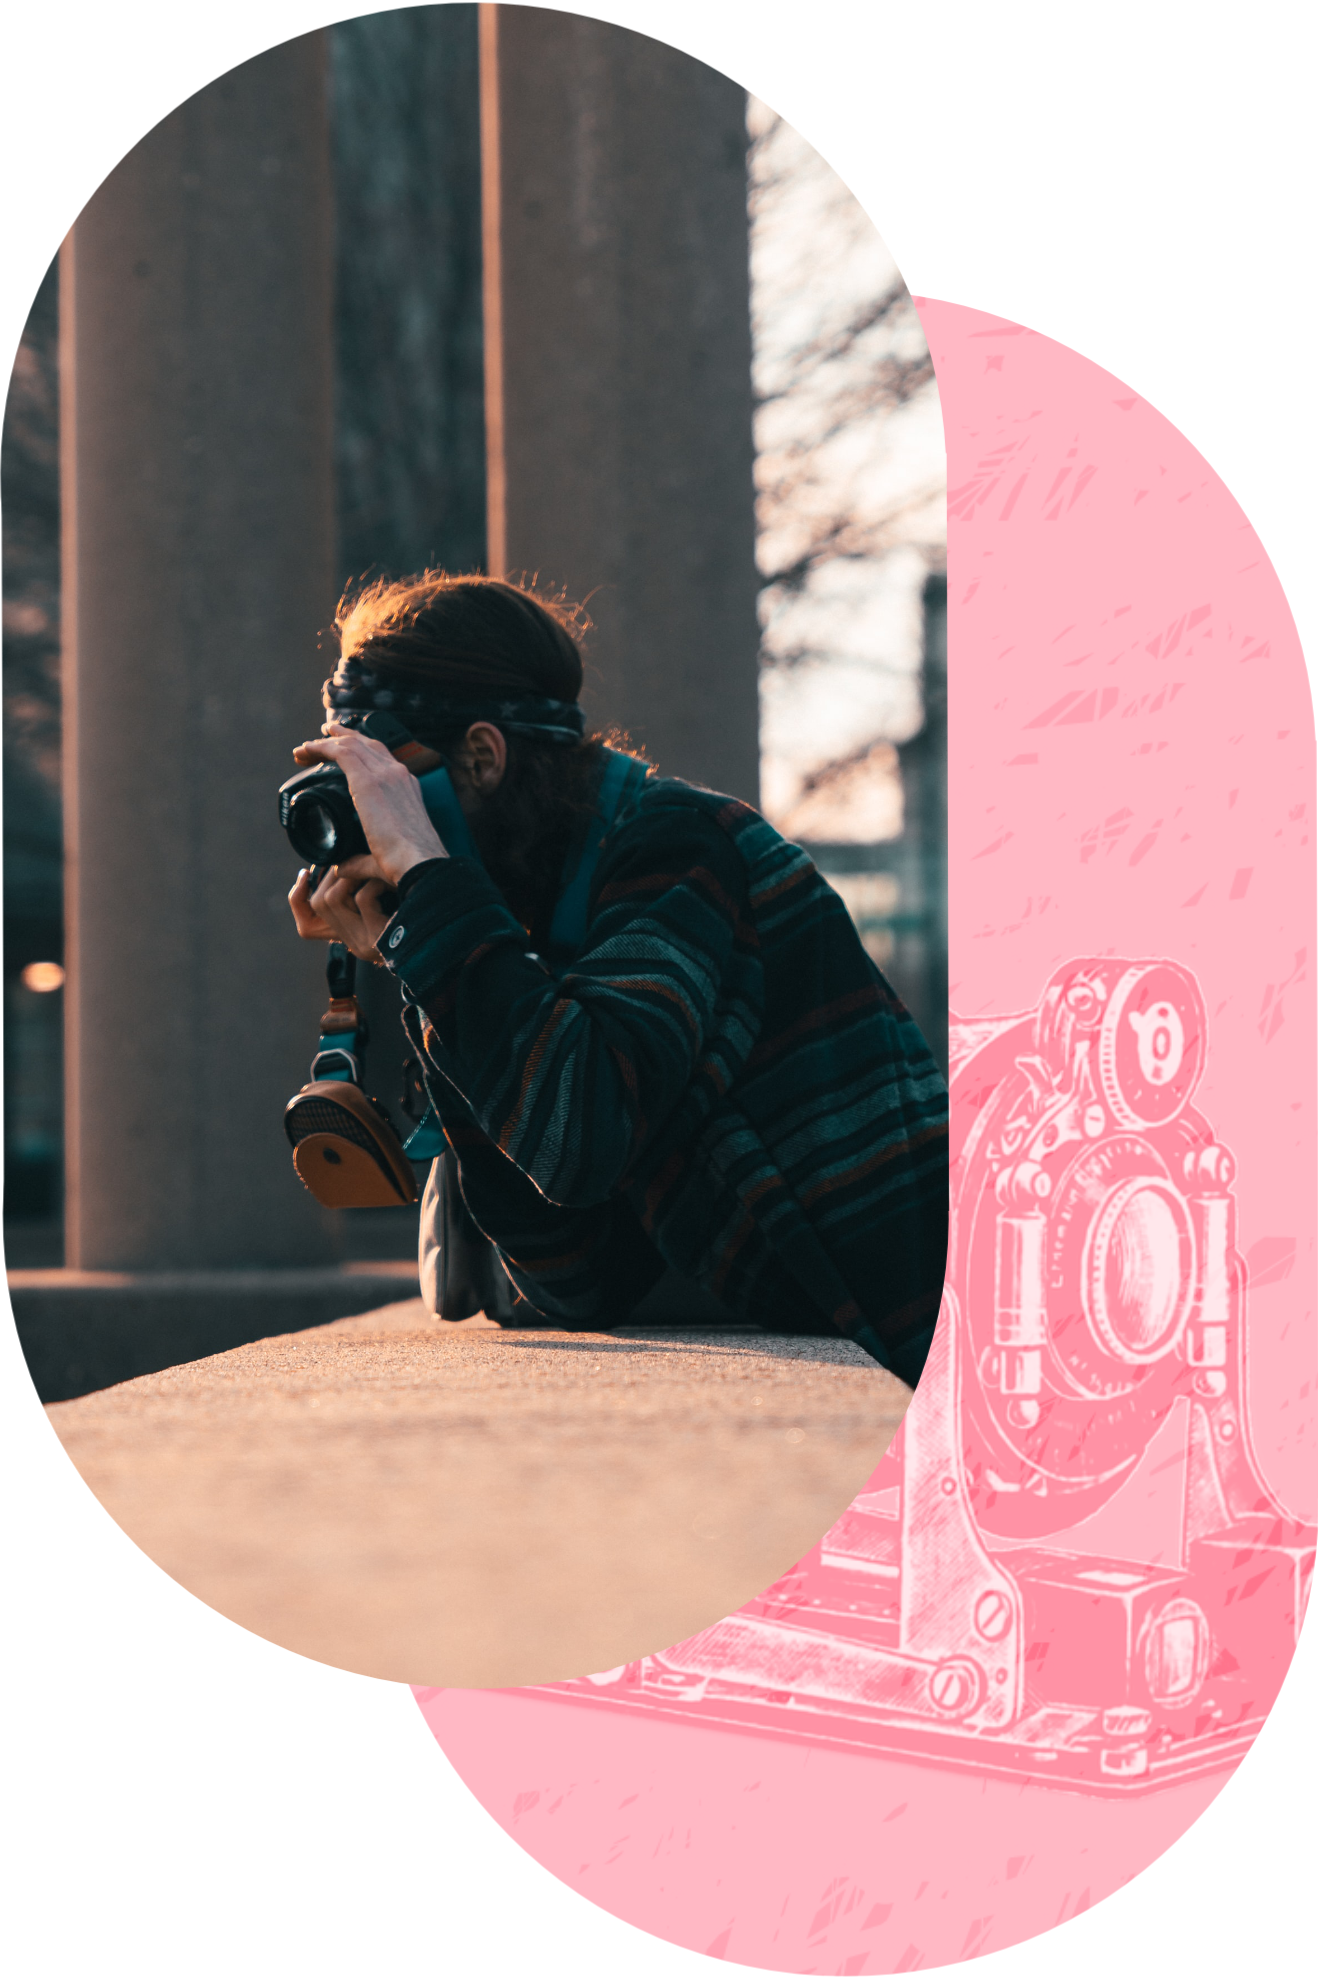
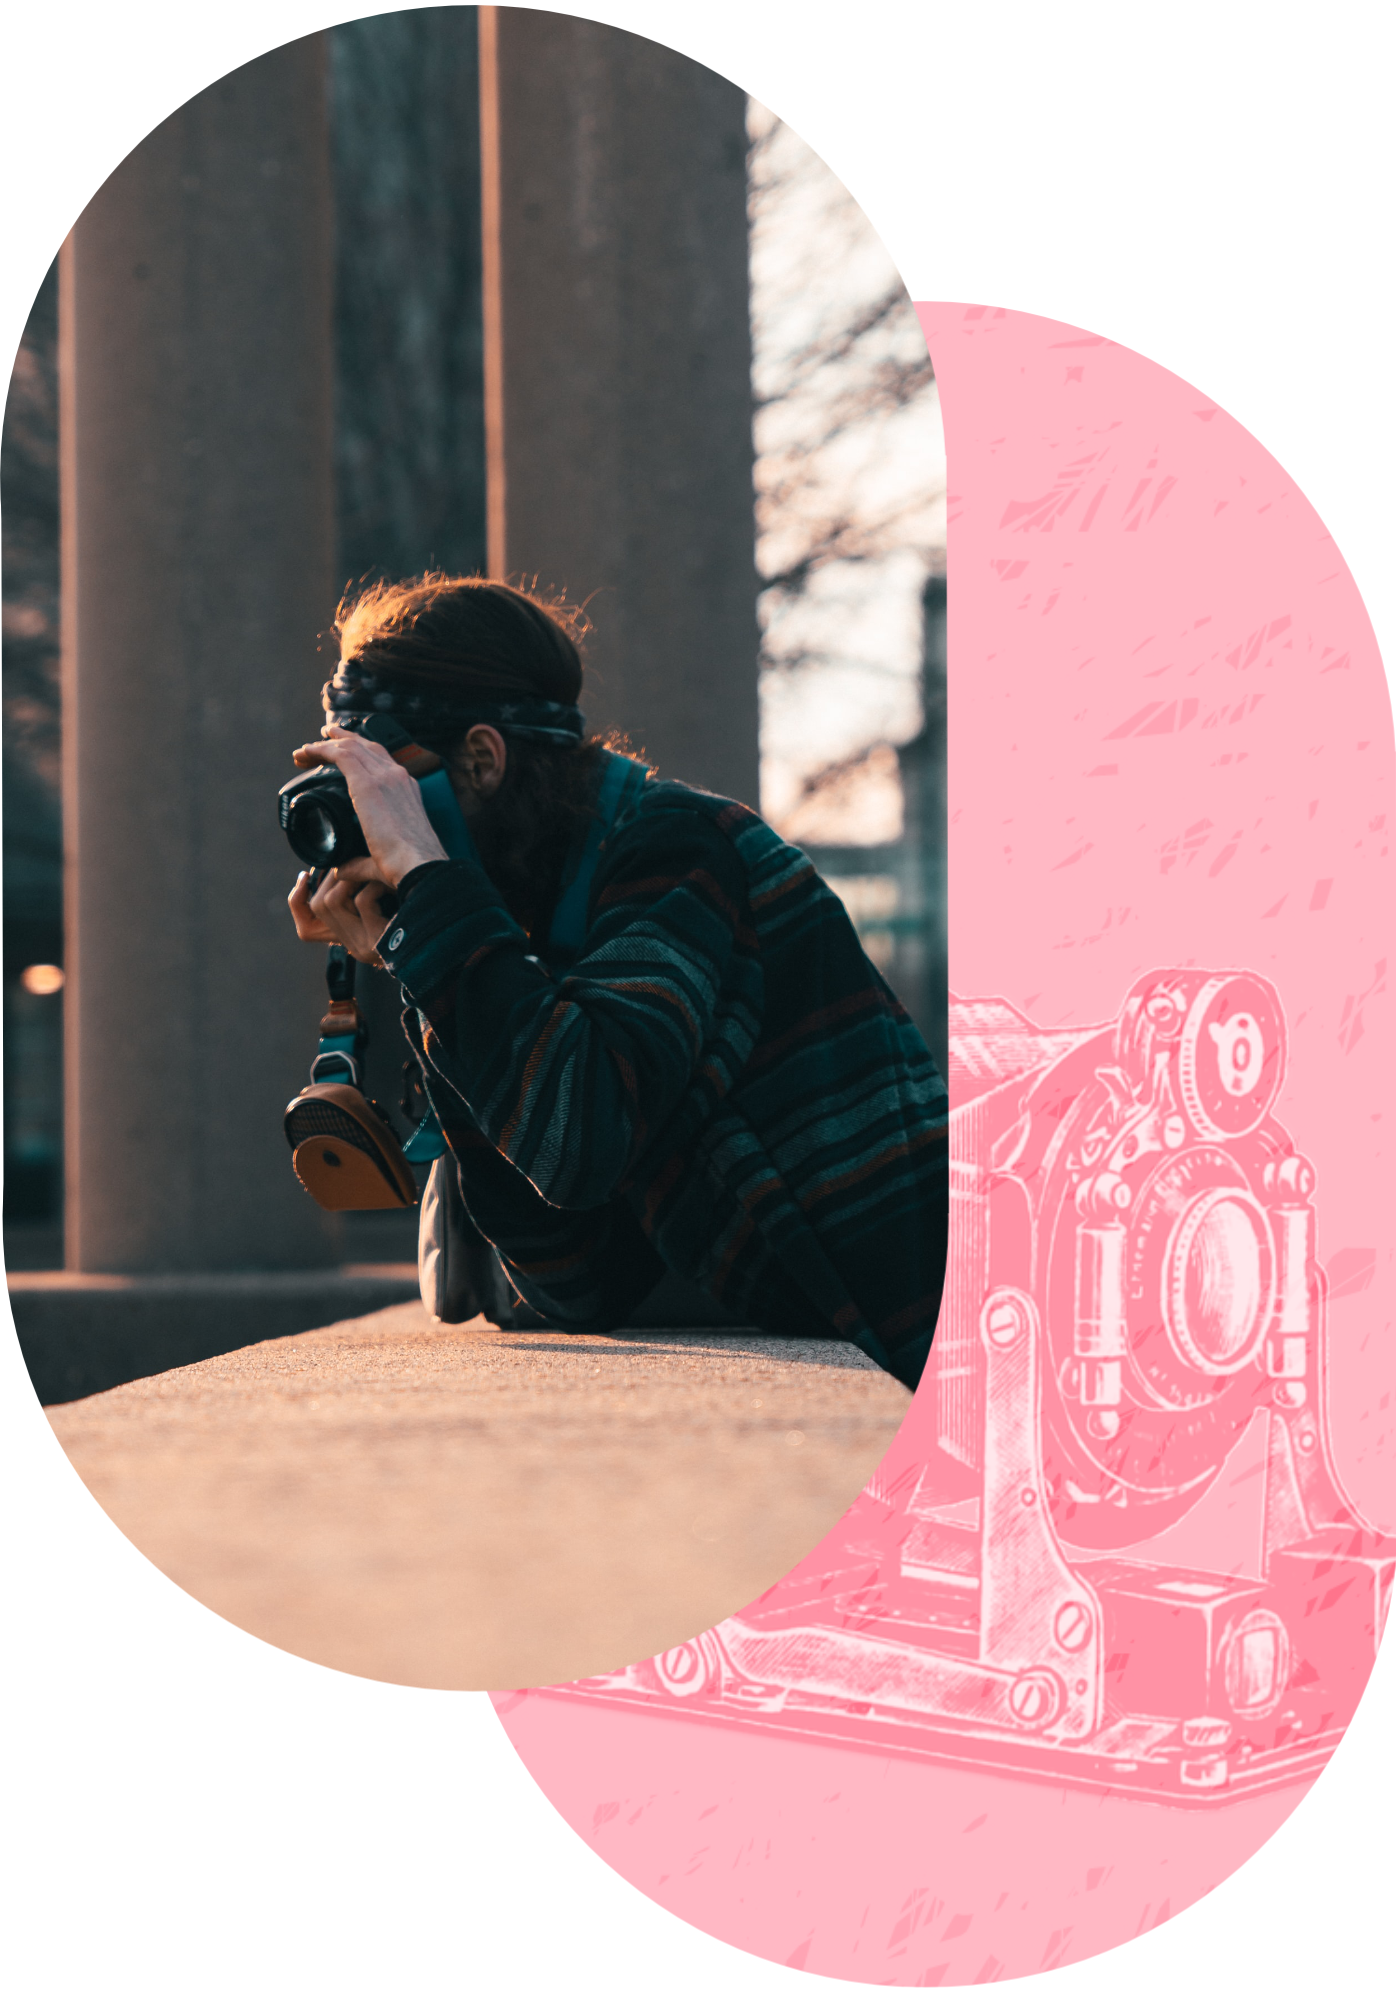
welcome.dart update
More updates to the welcome screen. I think that I almost have it done

- Still need to do some generalizing and also make it responsive

diff --git a/daily_1.0/daily/lib/userInterface/welcomeComponents.dart b/daily_1.0/daily/lib/userInterface/welcomeComponents.dart
@@ -44,12 +44,12 @@ List<Image> _images = [
     Image(image: AssetImage("lib/assets/welcome_carouselThree.png")),
 ];
 int _current = 0;
-Widget WelcomeCarousel(State state, BuildContext context) {
+Widget welcomeCarousel(State state, BuildContext context) {
   return Column(
       children: [
         Container(
-          height: 400,
-          width: 400,
+          height: getDimension(context, true, Theme.of(context).visualDensity.welcomeCarouselHeight),
+          width: getDimension(context, false, Theme.of(context).visualDensity.welcomeCarouselWidth),
           child: CarouselSlider(
             items: _images,
             options: CarouselOptions(
@@ -64,27 +64,39 @@ Widget WelcomeCarousel(State state, BuildContext context) {
             ),
           ),
         ),
-        SizedBox(height: 20,),
         Row(
-        mainAxisAlignment: MainAxisAlignment.center,
-        children: _images.map((image) {     
+          mainAxisAlignment: MainAxisAlignment.center,
+          children: _images.map((image) {     
             int index=_images.indexOf(image);
             return Container(
-              width: 10,
-              height: _current == index ? 30.0 : 20.0,
-              margin: EdgeInsets.symmetric(vertical: 10.0, horizontal: 3.5),
+              width: 8,
+              height: _current == index ? 30.0 : 15.0,
+              margin: EdgeInsets.symmetric(vertical: 20.0, horizontal: 3.5),
               decoration: BoxDecoration(
                   borderRadius: BorderRadius.circular(30),
                   color: _current == index
-                      ? Colors.red
-                      : Colors.grey.shade300
+                      ? Theme.of(context).colorScheme.welcomeCarouselCurrent
+                      : Theme.of(context).colorScheme.welcomeCarouselNotCurrent
               ),
             );
           },
         ).toList(), // this was the part the I had to add
       ),
-      ],
+    ],
+  );
+}
+
+class WelcomeCorner extends StatelessWidget {
+  @override
+  Widget build(BuildContext context) {
+    return Container(
+      height: 175,
+      width: 175,
+      child: Image(
+        image: AssetImage("lib/assets/welcome_corner.png"),
+      ),
     );
+  }
 }
 
 class WelcomeGetStarted extends StatelessWidget {

diff --git a/daily_1.0/daily/lib/userInterface/welcome.dart b/daily_1.0/daily/lib/userInterface/welcome.dart
@@ -1,6 +1,5 @@
 import 'package:flutter/material.dart';
 import 'package:daily/servicesLocal/responsive.dart';
-import 'package:daily/servicesLocal/systemPreferences.dart';
 import 'package:daily/userInterface/welcomeComponents.dart';
 import 'package:daily/themesLocal/colors.dart';
 import 'package:daily/themesLocal/positions.dart';
@@ -38,7 +37,7 @@ welcomeScreenDesktop(State state, BuildContext context) {
       ),
       Positioned(
         top: getPosition(context, true, Theme.of(context).materialTapTargetSize.welcomeDesktopCarouselTop),
-        child: WelcomeCarousel(state, context),
+        child: welcomeCarousel(state, context),
       ),
       Positioned(
         top: getPosition(context, true, Theme.of(context).materialTapTargetSize.welcomeDesktopGetStartedTop),
@@ -62,7 +61,7 @@ welcomeScreenTablet(State state, BuildContext context) {
       ),
       Positioned(
         top: getPosition(context, true, Theme.of(context).materialTapTargetSize.welcomeTabletCarouselTop),
-        child: WelcomeCarousel(state, context),
+        child: welcomeCarousel(state, context),
       ),
       Positioned(
         top: getPosition(context, true, Theme.of(context).materialTapTargetSize.welcomeTabletGetStartedTop),
@@ -85,8 +84,13 @@ welcomeScreenMobile(State state, BuildContext context) {
         child: WelcomeTitle(),
       ),
       Positioned(
+        top: 0,
+        right: -5,
+        child: WelcomeCorner(),
+      ),
+      Positioned(
         top: getPosition(context, true, Theme.of(context).materialTapTargetSize.welcomeMobileCarouselTop),
-        child: WelcomeCarousel(state, context),
+        child: welcomeCarousel(state, context),
       ),
       Positioned(
         top: getPosition(context, true, Theme.of(context).materialTapTargetSize.welcomeMobileGetStartedTop),

diff --git a/daily_1.0/daily/lib/themesLocal/positions.dart b/daily_1.0/daily/lib/themesLocal/positions.dart
@@ -6,22 +6,22 @@ extension CustomPositions on MaterialTapTargetSize {
   // #region welcomeDesktop
   double get welcomeDesktopTitleTop => 0.065;
   double get welcomeDesktopCarouselTop => 0.22;
-  double get welcomeDesktopGetStartedTop => 0.82;
-  double get welcomeDesktopAccountAlreadyTop => 0.925;
+  double get welcomeDesktopGetStartedTop => 0.815;
+  double get welcomeDesktopAccountAlreadyTop => 0.93;
   // #endregion
 
   // #region welcomeTablet
   double get welcomeTabletTitleTop => 0.065;
   double get welcomeTabletCarouselTop => 0.22;
-  double get welcomeTabletGetStartedTop => 0.82;
-  double get welcomeTabletAccountAlreadyTop => 0.925;
+  double get welcomeTabletGetStartedTop => 0.815;
+  double get welcomeTabletAccountAlreadyTop => 0.93;
   // #endregion
 
   // #region welcomeMobile
   double get welcomeMobileTitleTop => 0.065;
   double get welcomeMobileCarouselTop => 0.22;
-  double get welcomeMobileGetStartedTop => 0.82;
-  double get welcomeMobileAccountAlreadyTop => 0.915;
+  double get welcomeMobileGetStartedTop => 0.815;
+  double get welcomeMobileAccountAlreadyTop => 0.93;
   // #endregion
 }
 

diff --git a/daily_1.0/daily/lib/themesLocal/colors.dart b/daily_1.0/daily/lib/themesLocal/colors.dart
@@ -53,12 +53,16 @@ extension CustomColorScheme on ColorScheme {
   // #endregion
 
   // #region welcome
-  Color get welcomeBackground => 
+  Color get welcomeBackground =>
       isDark ? Color(0xFFFBFAF5) : Color(0xFFFBFAF5);
   Color get welcomeTitle =>
       isDark ? Color(0xFF333333) : Color(0xFF333333);
   Color get welcomeSubtitle =>
       isDark ? Color(0xFF333333) : Color(0xFF333333);
+  Color get welcomeCarouselCurrent =>
+      isDark ? Color(0xFFEF5350) : Color(0xFFEF5350);
+  Color get welcomeCarouselNotCurrent =>
+      isDark ? Color(0xFFDDDDDD) : Color(0xFFDDDDDD);
   Color get welcomeAccountAlready =>
       isDark ? Color(0xFF333333) : Color(0xFF333333);
   Color get welcomeAccountAlreadyLogin =>

diff --git a/daily_1.0/daily/lib/themesLocal/dimensions.dart b/daily_1.0/daily/lib/themesLocal/dimensions.dart
@@ -10,6 +10,8 @@ extension CustomDimensions on VisualDensity {
 
   // #region welcome
   double get welcomeTitleWidth => 1.0;
+  double get welcomeCarouselHeight => 0.5;
+  double get welcomeCarouselWidth => 1.0;
   double get welcomeGetStartedHeight => 0.07;
   double get welcomeGetStartedWidth => 0.45; 
   // #endregion
